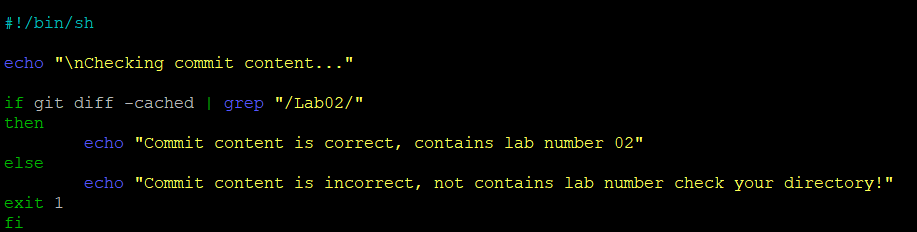
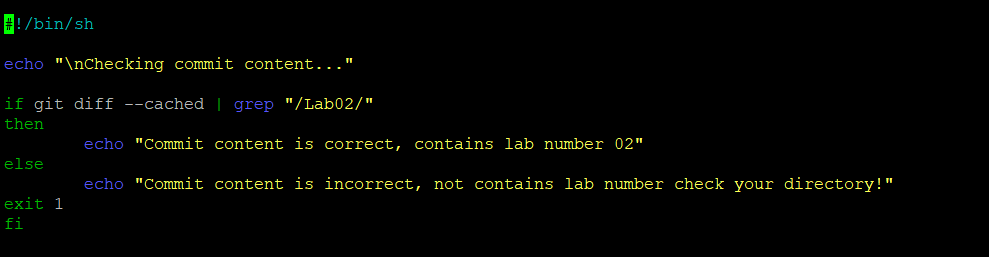
MK402568

diff --git a/INO/GCL01/MK402568/Lab02/SprawozdanieLab2.md b/INO/GCL01/MK402568/Lab02/SprawozdanieLab2.md
@@ -4,58 +4,86 @@
 ### 1. Przygotowanie git hooków rozwiązujących najczestsze problemy z commitami.
 Git hook jest skryptem, który jest intergralny z Gitem , jego dzialanie odbywa się w określonym momencie a zadanie jakie ma wykonać określane jest przez użytkownika.
 
-Prace z git hook'ami rozpocząłem od przejścia do katalogu *.git/hooks*, był to ukryty katalogi, aby go zobaczyć należy użyć komendy ```ls -la```.
+Prace z git hook'ami rozpocząłem od przejścia do katalogu *.git*, był to ukryty katalog, aby go zobaczyć należy użyć komendy ```ls -la```.
+
 ![](./screenshots/hidddenDirectory.png)
- Po przejściu do tego katalogu dokonałem modyfikacji "domyślnych" plików *commit-msg.samgle* oraz *pre-commit.sample*, kopiując je oraz usuwając ich rozszerzenie sample, tak aby umożliwić ich działanie.
+
+ Po przejściu do katalogu ```.git/hooks/``` dokonałem modyfikacji "domyślnych" plików *commit-msg.samgle* oraz *pre-commit.sample*, kopiując je oraz usuwając ich rozszerzenie sample, tak aby umożliwić ich poprawne działanie.
+
 ![](./screenshots/HooksCopying.png)
 
 Następnie przeszedłem do modyfikacji plików korzystając z edytora tekstu ```nano```, składnia kodu to powłoka systemów unixowych *Bash*.
 - hook sprawdzający, czy tytuł commita nazywa się ```<inicjały><numer indeksu>```.
-W pierwszej kolejności zadaniem jest zmodyfikowanie hook'a *commit-msg*, tak aby dokonał testu poprawności tytułu commita, który to ma zawierać inicjały oraz numer indeksu. Poprzez sprawdzenie argumentu przechowywanego w ```$1``` dokonujemy porównania z docelową wartością a następnie za pomocą instrukcji warunkowej na wyjście wypisany jest komunikat rezultatu testu.
+
+W pierwszej kolejności zadaniem jest zmodyfikowanie hook'a *commit-msg*, tak aby dokonał testu poprawności tytułu commita, który to ma zawierać inicjały oraz numer indeksu. Poprzez sprawdzenie argumentu przechowywanego w ```$1``` dokonujemy porównania z docelową wartością a następnie za pomocą instrukcji warunkowej na wyjście wypisany jest komunikat rezultatu testu. Tak więc, gdy tworzony jest commit wykonywany jest skrypt sprawdzający jego poprawność.
+
 ![](./screenshots/commit-msgBash.png) 
+
 Kolejno przeprowadziłem testy:
 + test pozytywny
+
 ![](./screenshots/positiveTestCommit-msg.png)
-+ test negatywny 
+
++ test negatywny
+
 ![](./screenshots/negativeTestCommit-msg.png)
+
 - hook sprawdzający, czy w treści commita pada numer labu, właściwy dla zadania.
+
 Drugim etapem pracy z git hook'ami było zmodyfikowanie hook'a *pre-commit*, tym razem korzystając z funkcji ```git diff``` oraz przełącznika ```cached``` sprawdzane jest czy zmiany zatwierdzone do zacommitowania posiadają w swojej ścieżce \Lab02\ (numer obecnego laboratorium). Następnie za pomocą instrukcji warunkowych na wyjście wypisywana jest wiadomość zwrotna. 
 ![](./screenshots/pre-commit.png)
+
 Kolejno przeprowadziłem testy, w celu sprawdzenia poprawności utworzyłem w katalogu poprzedniego laboratorium plik tekstowy:
 + test pozytywny 
 ![](./screenshots/positivePre.png)
 + test negatywny
 ![](./screenshots/negativePre.png)
+
+Podsumowując git hook's umożliwiają automatyzacje i usprawnienie pracy z repozytorium. Ponadto zabezpieczają nas przed popełnianiem podstawowych błędów.
+
 ### 2. Umieść hook w sprawozdaniu w taki sposób, aby dało się go przejrzeć
 Oba zmodyfikowane hooki zostały umieszczone inline powyżej.
 ### 3. Rozpocznij przygotowanie środowiska Dockerowego
 - zapewnij dostęp do maszyny wirtualnej przez zdalny terminal (nie "przez okienko").
-Podczas laboratoriów korzystam z Wirtual Box'a z zamontowanym obrazem systemu Ubuntu, dostęp za pomocą terminala poprzez ssh umożliwia mi *PuTTY*, ponadto posiadam klienta FTP *FileZilla*. Poniżej screenshoty potwierdzające to o czym wspomniałem.
-![](./screenshots/filezilla.png)![](./screenshots/puttyConection.png.png)
+
+Podczas laboratoriów korzystam z Wirtual Box'a z zamontowanym obrazem systemu Ubuntu, dostęp za pomocą terminala poprzez ssh umożliwia mi *PuTTY*, ponadto posiadam klienta FTP *FileZilla* aby usprawnić przesyłanie plików pomiędzy systemem a maszyną wirtualną. Poniżej screenshoty potwierdzające to o czym wspomniałem.
+![](./screenshots/filezilla.png) ![](./screenshots/puttyConection.png)
 - jeżeli nie jest stosowane VM (np. WSL, Mac, natywny linux), wykaż ten fakt dokładnie.
+
 Nie dotyczy.
 - zainstaluj środowisko dockerowe w stosowanym systemie operacyjnym.
 Instalacja dockera, krok po kroku: 
 + Usunięcie jakichkolwiek działających plików dockera w systemie korzystając z komendy ```sudo apt-get docker docker-engine docker.io```.
+
 + Zainstalowanie dockera, korzystając z komendy ```sudo apt install docker.io```.
+
 ![](./screenshots/dockerInstall.png)
 + Instalacja wszystkich pakietów zależności ```sudo snap install docker```.
+
 ![](./screenshots/dockerInstall2.png)
 + Sprawdzenie wersji dockera ```docker --version```.
+
 ![](./screenshots/dockerVersion.png)
 + Przetestowanie działania poprzez pull obrazu z Docker huba korzystając z komendy ```sudo docker run hello-world```.
+
 ![](./screenshots/dockerHelloWorld.png)
 ### 4.Działanie środowiska.
 - wykaż, że środowisko dockerowe jest uruchomione i działa (z definicji).
-Aby wykazać działanie środowiska dockerowego z definicji, wywołuje komende ```ps -aux | grep 'docker' ```, która to powoduje "przefiltrowany" wydruk statusów procesów. Otrzymany wynik potwierdza istnienie procesów *dockerd* oraz *contained*.
+Aby wykazać działanie środowiska dockerowego z definicji, wywołuje komende ```ps -aux | grep 'docker' ```, która to powoduje "przefiltrowany" wydruk statusów procesów. Otrzymany wynik potwierdza istnienie procesów *dockerd* oraz *containerd*.
+
 ![](./screenshots/dockerDefinition.png)
-- wykaż działanie z sposób praktyczny (z własności)
-W celu wykazania działania dockera w sposób praktyczny, pobrałem obraz linuksowej dystrybucji *Fedora*, ponieważ sam korzystam z Ubuntu. Korzystam ponownie z polecenia pull'owania obrazu ```sudo docker run fedora```.
+- wykaż działanie z sposób praktyczny (z własności).
+
+W celu wykazania działania dockera w sposób praktyczny, pobrałem obraz linuksowej dystrybucji *Fedora*, ponieważ sam korzystam z Ubuntu. Korzystam ponownie z polecenia tworzącego kontener na określonym obrazie ```sudo docker run fedora```. Ponadto potwierdzam poprawność wykonania polecenia za pomocą komendy ```sudo docker images ```.
+
 ![](./screenshots/dockerFedora.png)
+
 Następnie wykazuje aktualną wersje Fedor'y za pomocą polecenia ```sudo docker run -it fedora```.
+
 ![](./screenshots/fedoraVersion.png)
 ### 5.Załóż konto na Docker Hub
 Zgodnie z poleceniem założyłem konto na Docker Hub'ie co potwierdza poniższy screen.
+
 ![](./screenshots/dockerHubAcount.png)
 
 
